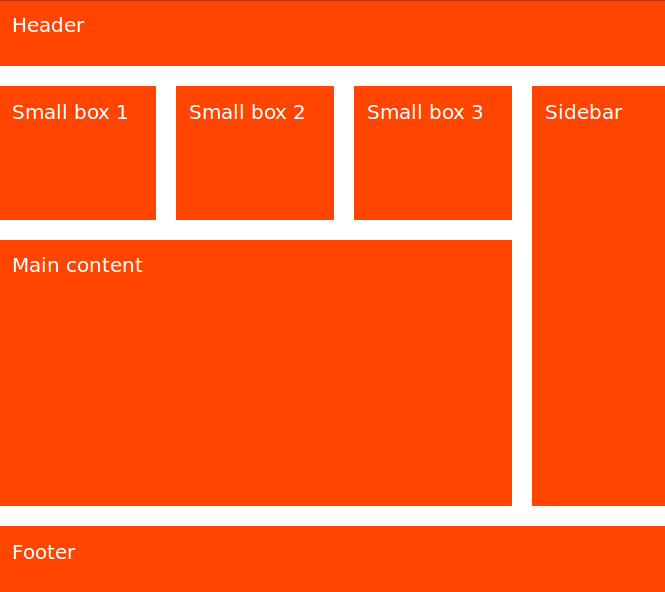
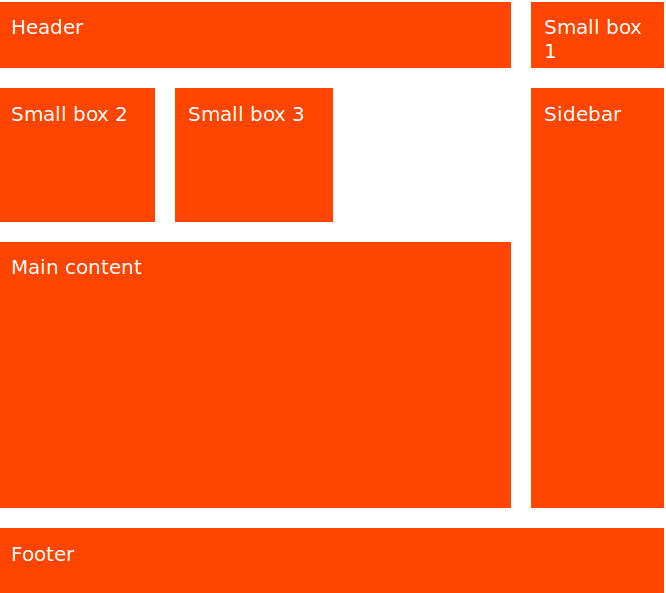
If you want to leave an empty space you may use a dot. The small box move in the empty space because isn't really positioned.

Changed region(s): [[0.0, 0.0, 1.0, 1.0], [0.2707, 0.1824, 0.4812, 0.2128], [0.0, 0.1824, 0.2105, 0.2128]]

diff --git a/scss/style.scss b/scss/style.scss
@@ -84,7 +84,7 @@
   grid-template-columns: repeat(3, 1fr) 200px;
   grid-gap: 30px;
   
-  grid-template-areas: "head head head head"
+  grid-template-areas: "head head head ."
                        "box  box  box  side"
                        "main main main side"
                        "foot foot foot foot";
